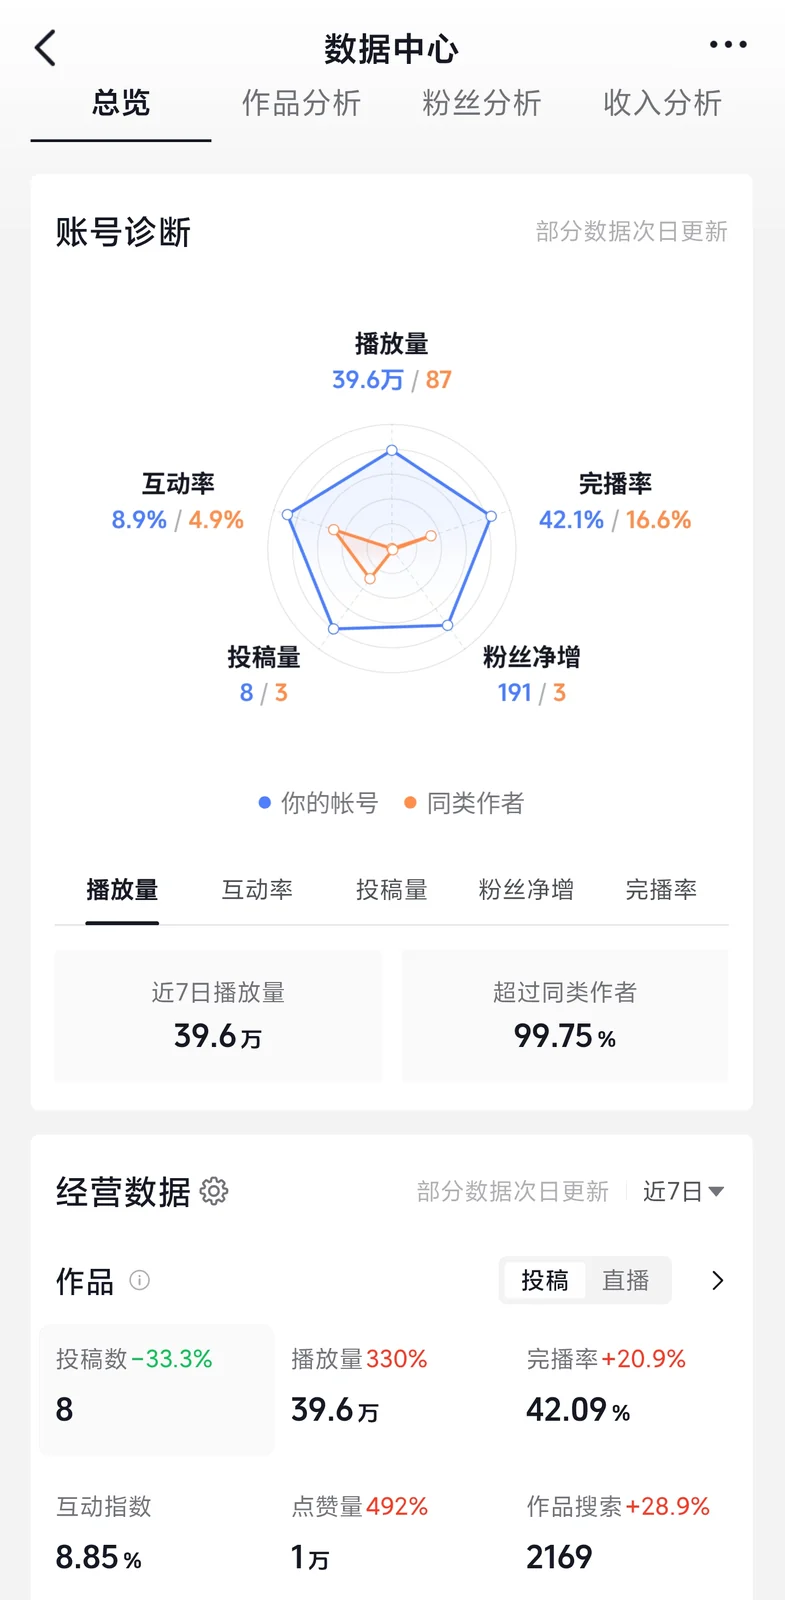
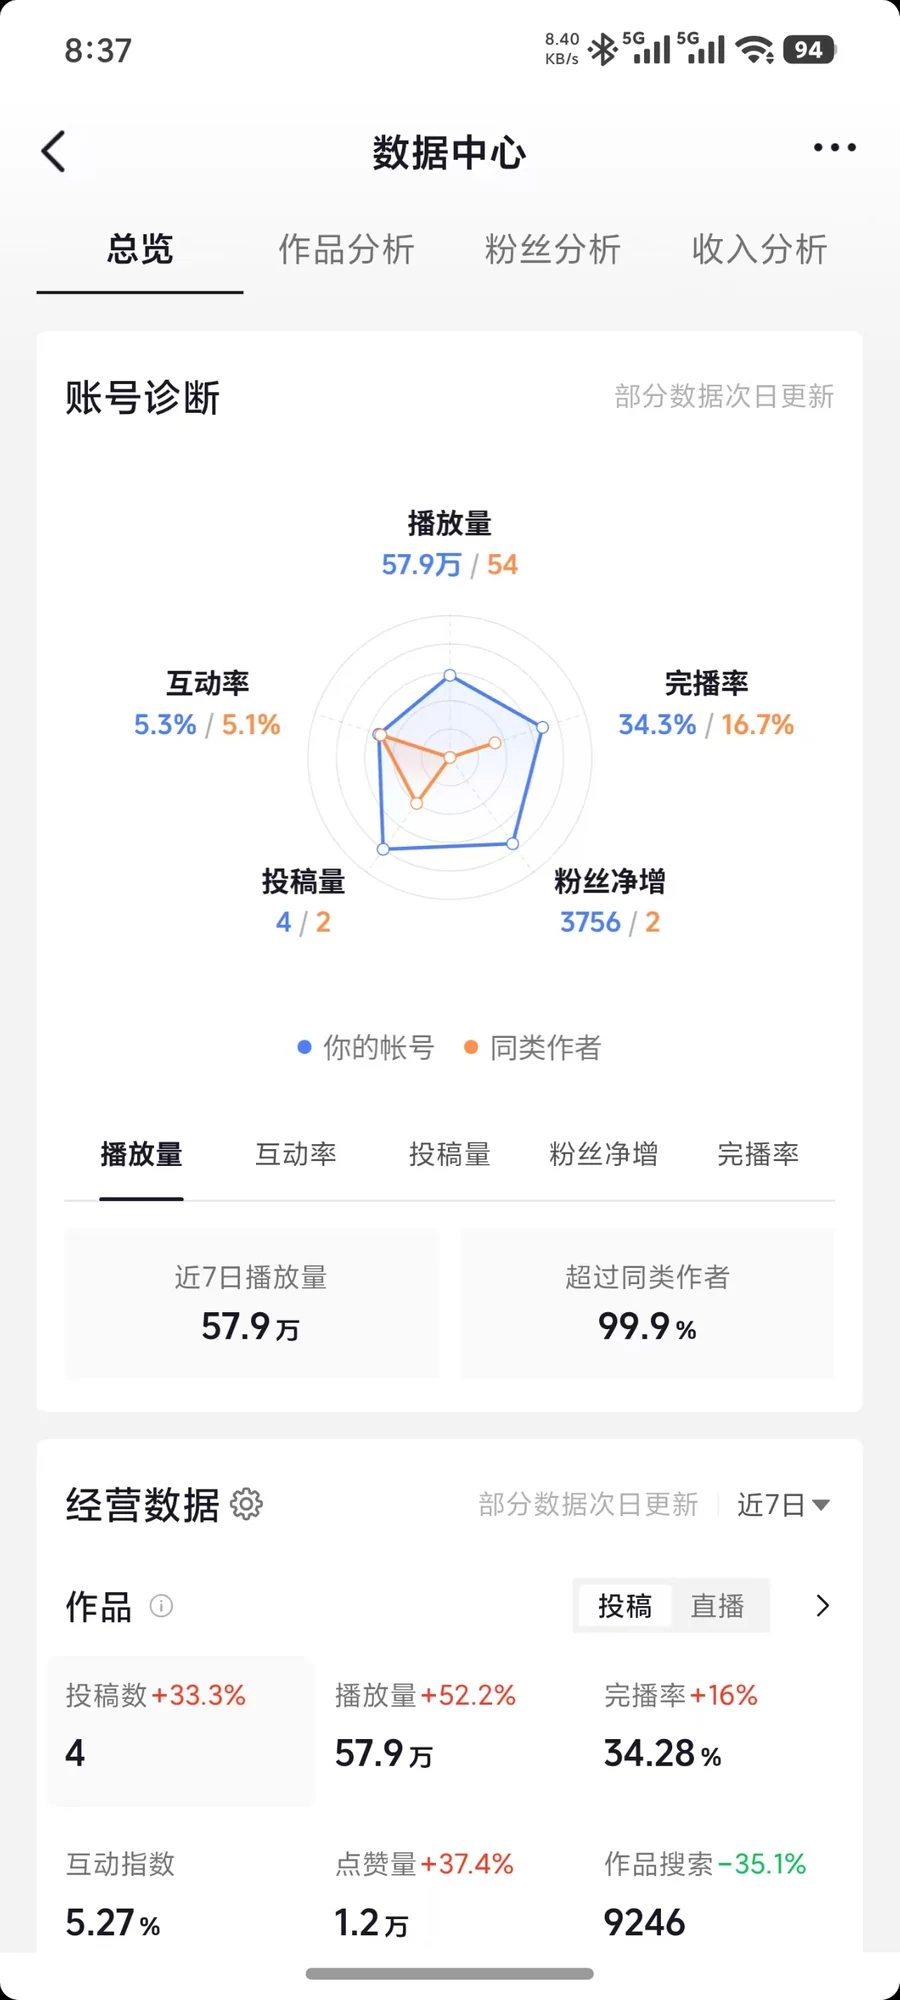
Update video and weekly analytics data

diff --git a/index.html b/index.html
@@ -1977,7 +1977,7 @@ footer b { color: rgba(250, 244, 235, 0.8); }
       </div>
       <div class="hero-visual rv in" style="--d:.15s">
         <div class="arch"><img decoding="async" src="assets/img-01.webp" width="810" height="1440" fetchpriority="high" alt="王佳卓生活照"></div>
-        <div class="sticker s1">最高单条 200.8 万<small>4 条百万播放爆款</small></div>
+        <div class="sticker s1">最高单条 230 万<small>4 条百万播放爆款</small></div>
         <div class="sticker s2">样品交付及时率 98%<small>外贸全流程实操</small></div>
       </div>
     </div>
@@ -1986,7 +1986,7 @@ footer b { color: rgba(250, 244, 235, 0.8); }
       <div class="data-in">
         <div class="data-cell">
           <div class="tag">自媒体</div>
-          <div class="num">4 条百万播放爆款 <i>/ 最高 200.8 万</i></div>
+          <div class="num">4 条百万播放爆款 <i>/ 最高 230 万</i></div>
           <div class="lab">抖音 + 小红书，从策划到剪辑都是我一个人</div>
         </div>
         <div class="data-cell">
@@ -2139,7 +2139,7 @@ footer b { color: rgba(250, 244, 235, 0.8); }
         <div class="imgbox"><img src="assets/img-06.webp" width="520" height="1155" loading="lazy" decoding="async" alt="「当男熊友被我收拾了一顿后」作品截图：布布趴在床上委屈哼唧"></div>
         <div class="body">
           <h3>当男熊友被我收拾了一顿后</h3>
-          <div class="data">185 万<small>播放 ｜ 抖音点赞 4 万</small></div>
+          <div class="data">230 万<small>播放 ｜ 抖音点赞 5.1 万</small></div>
           <p class="desc">一二把男熊友“收拾”了一顿，布布趴在床上一脸委屈，嘴上还“哼唧”。情侣间的小别扭谁都经历过，评论区很快变成“同款男友”故事会。</p>
           <div class="formula"><b>共鸣场景 + 角色反差 + 评论区晒经历</b></div>
         </div>
@@ -2148,7 +2148,7 @@ footer b { color: rgba(250, 244, 235, 0.8); }
         <div class="imgbox"><img src="assets/img-07.webp" width="413" height="866" loading="lazy" decoding="async" alt="情侣IP大集合作品截图：四大顶流情侣IP"></div>
         <div class="body">
           <h3>情侣IP 大集合</h3>
-          <div class="data">148.5 万<small>播放 ｜ 抖音点赞 2.6 万</small></div>
+          <div class="data">160.9 万<small>播放 ｜ 抖音点赞 2.8 万</small></div>
           <p class="desc">把当时最火的四对情侣IP——<b>线条小狗、蜜桃灰灰、噜噜噜妹、一二布布</b>——放一屏，问“你是哪个流派？”评论区立刻站队、拉人、吵起来。</p>
           <div class="formula"><b>抛问题引互动</b> — 让用户站队，评论自己长出来</div>
         </div>
@@ -2171,17 +2171,17 @@ footer b { color: rgba(250, 244, 235, 0.8); }
     <div class="cold rv in">
       <div class="txt">
         <h3>后台数据，比我会说话</h3>
-        <p>我不挑好看的说。这是抖音后台交出来的周报：近 7 天播放 39.6 万，<b>超过同类作者 99.75%</b>。</p>
+        <p>我不挑好看的说。这是抖音后台交出来的周报：近 7 天播放 57.9 万，<b>超过同类作者 99.9%</b>。</p>
         <div class="stats">
-          <div class="stat"><span class="k">完播率</span><span class="me">42.09%</span><span class="vs">同类作者 16.6%</span></div>
-          <div class="stat"><span class="k">互动率</span><span class="me">8.9%</span><span class="vs">同类作者 4.9%</span></div>
-          <div class="stat"><span class="k">粉丝净增</span><span class="me">191</span><span class="vs">同类作者 3</span></div>
-          <div class="stat"><span class="k">点赞量</span><span class="me">1 万</span><span class="vs">周环比 +492%</span></div>
+          <div class="stat"><span class="k">完播率</span><span class="me">34.3%</span><span class="vs">同类作者 16.7%</span></div>
+          <div class="stat"><span class="k">互动率</span><span class="me">5.3%</span><span class="vs">同类作者 5.1%</span></div>
+          <div class="stat"><span class="k">粉丝净增</span><span class="me">3756</span><span class="vs">同类作者 2</span></div>
+          <div class="stat"><span class="k">点赞量</span><span class="me">1.2 万</span><span class="vs">周环比 +37.4%</span></div>
         </div>
         <p>翻译一下：大家不只是点进来，是真的看完、会聊、会关注。这是做内容最值钱的部分。</p>
       </div>
       <div class="phones">
-        <div class="phone tl"><img src="assets/img-09.webp" width="1437" height="2928" loading="lazy" decoding="async" alt="抖音数据中心后台：近7日播放39.6万，超过同类作者99.75%"></div>
+        <div class="phone tl"><img src="assets/img-09.webp" width="900" height="2000" loading="lazy" decoding="async" alt="抖音数据中心后台：近7日播放57.9万，超过同类作者99.9%"></div>
       </div>
     </div>
 
